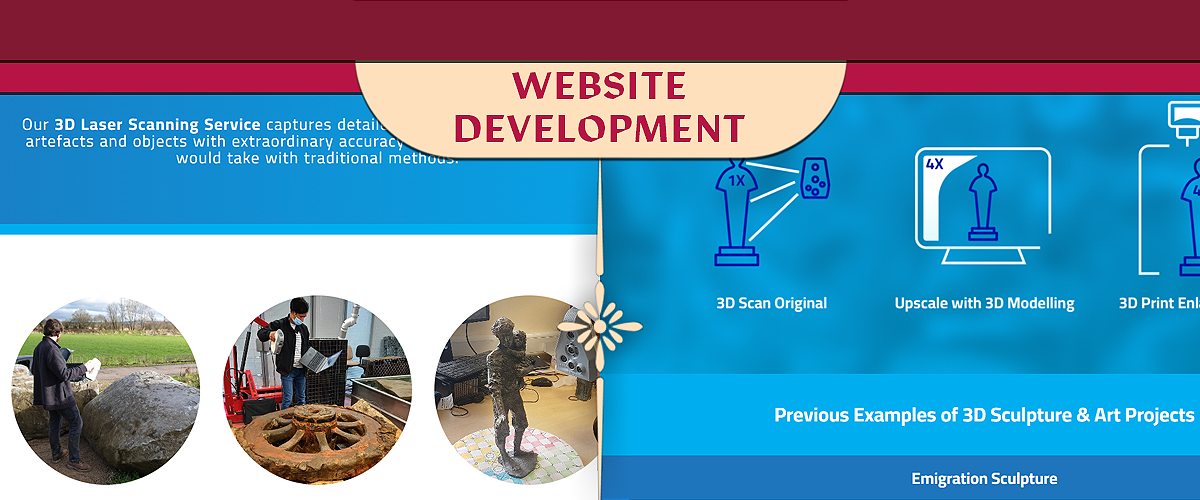
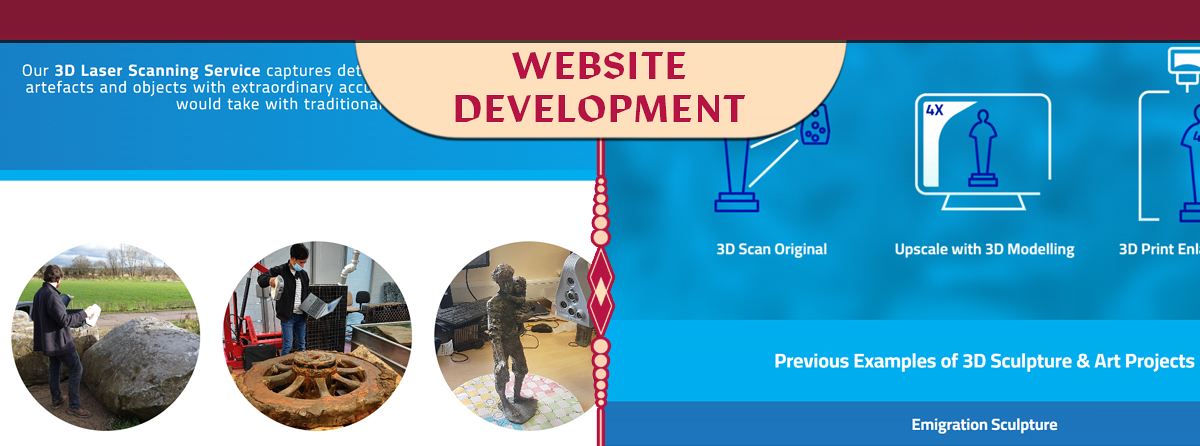
Add files via upload

diff --git a/index.html b/index.html
@@ -15,19 +15,21 @@
     <!-- Logo -->
     <div class="logo"><img src="files/logo.png" alt="image"></div>
     <!-- Menu -->
-    <div class="menu-line"></div> <!-- Add this for the line -->
-    <div class="menu">
-      <br>
-      <img src="files/name.png" alt="image">
-      <!-- index.html -->
-      <h2><a href="index.html">HOME</a></h2>
-      <!-- portfolio.html -->
-      <h2><a href="portfolio.html">PORTFOLIO</a></h2>
-      <!-- contact.html-->
-      <h2><a href="contact.html">CONTACT</a></h2>
-      <br>
+    <div class="menu-container">
+      <div class="menu-line"></div> <!-- Add this for the line -->
+      <div class="menu">
+        <br>
+        <img src="files/name.png" alt="image">
+        <!-- index.html -->
+        <h2><a href="index.html">HOME</a></h2>
+        <!-- portfolio.html -->
+        <h2><a href="portfolio.html">PORTFOLIO</a></h2>
+        <!-- contact.html-->
+        <h2><a href="contact.html">CONTACT</a></h2>
+        <br>
+      </div>
+      <div class="menu-line"></div> <!-- Add this for the line -->
     </div>
-    <div class="menu-line"></div> <!-- Add this for the line -->
     <!-- Page Specific-->
     <!-- Personal Image & Blurb -->
     <div id="intro">
@@ -37,9 +39,9 @@
       <p>Technological University of Dublin</p>
       <br>
       <p>Welcome!</p>
-      <p>Having studied in the field of Computer Science & Web Development since 2019, I provide a number of services to help grow your business online, something that has become broadly necessary to achieve consistent growth in the modern world of business. From the fundamental building block of a Website, to designing video & graphic advertisements for social media, I can create what you need.</p>
-      <p>I started off with a very early interest in Computers that has only seemed to grow as I have gotten older - from getting my first computer in my childhood, to using early spare copies of Photoshop from my uncle as a young teen, to working in the software field in a company as large as Mastercard.</p>
-      <p>I offer a number of services related to the Web, Programming and Visual Design:</p>
+      <p>Having studied in the field of Computer Science & Web Development since 2019, I provide a number of services related to Web & Graphic Design. With services ranging from the fundamental building block of a website, to designing video & graphic advertisements for social media, I can design and create according to your needs - be it starting a brand or expanding your business online.</p>
+      <p>I started off with a very early interest in Computers that has only seemed to grow as I have gotten older - from getting my first computer in my childhood, using Photoshop as a young teen to create a business card for my neighbour, to working in the software field in a company as large as Mastercard.</p>
+      <p>I offer a number of services related to the <b>Web, Programming and Visual Design</b>:</p>
       <ul>
         <li><b>Web Development</b> - building a website and maintaining it</li>
         <li><b>Logo Design</b> - creating a personalised logo for your brand or business</li>

diff --git a/settings/styling.css b/settings/styling.css
@@ -11,12 +11,14 @@ body {
 }
 /* Main Container */
 .container {
-    max-width: 50%;
-    min-height: 100%;
+    width: 50vw;
+    min-height: 100vh;
     margin: auto;
+    background-image: linear-gradient(#ffffff07, #00000007);
     background-color: #ba2449;
-    border-left:1.5vw solid #b61644;
-    border-right:1.5vw solid #b61644;
+    border-left:0.1vw solid #ffe0bc;
+    border-right:0.1vw solid #ffe0bc;
+    box-shadow: 0px 1vw 2vw 0.5vw rgba(0, 0, 0, 0.233)
 }
 /* CD Logo */
 .logo img {
@@ -25,6 +27,9 @@ body {
     margin-left: auto;
     margin-right: auto;
     text-align: center;
+}
+.menu-container {
+    background-image: linear-gradient(to right, #b61644, #ffffff00, #b61644);
 }
 /* Navigation Bar */
 .menu {
@@ -35,7 +40,6 @@ body {
     flex-wrap: nowrap; /* Prevents wrapping of content */
     width: 100%; /* Ensures the menu fits within the parent container */
     max-width: 100%; /* Limits the width */
-    background-color: #b61644;
     padding: 1em 1.5em; /* Adds padding for better spacing */
     box-sizing: border-box; /* Includes padding in the element's total width */
 }
@@ -65,7 +69,7 @@ body {
 }
 /* Line Break Styling */
 .menu-line {
-    height: 1px; /* Thickness of the line */
+    height: 0.1vh; /* Thickness of the line */
     background-color: #ffe0bc; /* Gold color */
     width: 100%; /* Spans the full width of the menu container */
     margin: auto; /* Adds spacing around the line */
@@ -177,14 +181,25 @@ a:active {
 /* Portfolio Menu */
 #portfolio-menu-selection {
     display: block;
+    margin-top: 10vh;
+    padding-bottom: 10vh;
+    margin-left: auto;
+    margin-right: auto;
     text-align: center;
+    max-height: 80%;
 }
 
 /* Portfolio Banners */
 #portfolio-menu-selection img {
-    padding-top: 4vh;
-    padding-bottom: 4vh;
+    border-bottom:0.1vh solid #ffe0bc;
+    border-top:0.1vh solid #ffe0bc;
+    margin-bottom:10vh;
     display: block;
     width: 100%;
+    box-shadow: 0px 1vw 2vw 0.5vw rgba(0, 0, 0, 0.075);
+}
 
+#portfolio-offer img {
+    border: 0;
+    box-shadow: 0vw 0vw 0vw 0vw;
 }

diff --git a/portfolio.html b/portfolio.html
@@ -15,25 +15,30 @@
     <!-- Logo -->
     <div class="logo"><img src="files/logo.png" alt="image"></div>
     <!-- Menu -->
-    <div class="menu-line"></div>
-    <div class="menu">
-      <br>
-      <img src="files/name.png" alt="image">
-      <!-- index.html -->
-      <h2><a href="index.html">HOME</a></h2>
-      <!-- portfolio.html -->
-      <h2><a href="portfolio.html">PORTFOLIO</a></h2>
-      <!-- contact.html-->
-      <h2><a href="contact.html">CONTACT</a></h2>
-      <br>
+    <div class="menu-container">
+      <div class="menu-line"></div> <!-- Add this for the line -->
+      <div class="menu">
+        <br>
+        <img src="files/name.png" alt="image">
+        <!-- index.html -->
+        <h2><a href="index.html">HOME</a></h2>
+        <!-- portfolio.html -->
+        <h2><a href="portfolio.html">PORTFOLIO</a></h2>
+        <!-- contact.html-->
+        <h2><a href="contact.html">CONTACT</a></h2>
+        <br>
+      </div>
+      <div class="menu-line"></div> <!-- Add this for the line -->
     </div>
-    <div class="menu-line"></div>
     <!-- Page Specific-->
     <!-- Menu -->
     <div id="portfolio-menu-selection">
       <a href="portfolio-webdev.html"><img src="files/menu-one.png" alt="image"></a>
       <a href="portfolio-logodesign.html"><img src="files/menu-two.png" alt="image"></a>
       <a href="portfolio-businesscards.html"><img src="files/menu-three.png" alt="image"></a>
+      <div id="portfolio-offer">
+        <img src="files/offer.png" alt="image">
+      </div>
       <a href="portfolio-socialmedia.html"><img src="files/menu-four.png" alt="image"></a>
       <a href="portfolio-photoediting.html"><img src="files/menu-five.png" alt="image"></a>
       <a href="portfolio-programming.html"><img src="files/menu-six.png" alt="image"></a>
